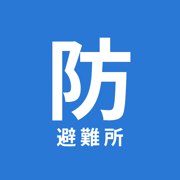
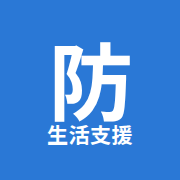
アプリのアイコンを「防 生活支援」に描き直し (#189)
* 世帯数の推移を追加し、公開ページに避難者数・世帯数グラフを表示

- data.json: 各避難所に世帯数（8/3公表値）を追加。推移に
  hhByDistrict / hhByShelter（8/2: 1,390世帯・8/3: 1,436世帯）を追加
- seikatsu.html: 「避難者数・世帯数の推移」カードを新設。
  市の公表（毎日午前8時時点）に基づく2系列の折れ線グラフ
  （各点に数値ラベル）。KPIの避難者数タイルに世帯数を併記
- admin.html: 保存時に世帯数・世帯推移データを消さずに引き継ぐ
  （この画面では編集しない値のパススルー）

Claude-Session: https://claude.ai/code/session_01MvCzwowDnr2f13hJXsgPbP

* 公開準備: 生活支援情報のサンプルデータを削除し「情報収集中」の案内に変更

- seikatsu.json: 給水・仮設トイレ・配布物資のサンプルを空にする（避難者数等は市公表の正式データのみ）
- seikatsu.html: 注意バナーを「仮データ」から「現在情報を集めています」に変更、空状態の文言を準備中表記に
- seikatsu-admin.html: 仮データチェックボックスのラベルを実態に合わせて更新
- sw.js: キャッシュ v3 に更新（公開時に新しい文言が確実に配信されるように）

Claude-Session: https://claude.ai/code/session_01MvCzwowDnr2f13hJXsgPbP

* 生活支援情報ページに地区・避難所フィルターを追加（旧ページと同等）

- 地区→避難所の2段プルダウンと「絞り込みを解除」ボタン
- 地図の避難所マーカーをタップするとページ全体がその避難所に絞り込まれる
- KPI: 絞り込みに追従。避難所選択時は「受入余力」を表示
- 推移グラフ: 地区選択時は byDistrict、避難所選択時は byShelter の系列を表示
- 給水・仮設トイレ・配布物資も地区（配布は避難所も）で絞り込み

Claude-Session: https://claude.ai/code/session_01MvCzwowDnr2f13hJXsgPbP

* 絞り込み時に推移グラフを「対象＋全体（総計）」の2段表示に

- 地区・避難所で絞り込むと、その対象の推移グラフの下に全体（総計）のグラフも表示
- それぞれに小見出し（対象名／全体（総計））を付与
- 規模が違ってもどちらも読めるよう、1つのグラフに重ねず縦に並べて表示
- 絞り込み対象の推移データがない場合は全体のみ表示（従来はカードごと非表示）

Claude-Session: https://claude.ai/code/session_01MvCzwowDnr2f13hJXsgPbP

* 推移グラフ: 拠点絞り込み時は1つのグラフに拠点＋町の合計を重ねる

- 避難所選択時: その拠点（実線）と絞った町の合計（破線・控えめ表示）を同一グラフに表示
- 市全体のトータルは表示しない（比較対象は町の合計）
- 地区選択時: その町の合計のみを表示
- 町にその拠点しかない場合は合計＝拠点のため破線を省略
- 2段グラフ表示は廃止（前コミットの方式を置き換え）
[…]

Changed region(s): [[0.25, 0.1944, 0.75, 0.8333], [0.6944, 0.5556, 0.7222, 0.5833], [0.6944, 0.5, 0.7222, 0.5278]]

diff --git a/sw.js b/sw.js
@@ -5,7 +5,7 @@
    ============================================================ */
 "use strict";
 
-const VERSION = "v16";
+const VERSION = "v17";
 const APP_CACHE = "app-" + VERSION;
 const TILE_CACHE = "tiles-" + VERSION;
 const TILE_MAX = 300;   // 地図タイルの最大キャッシュ枚数
